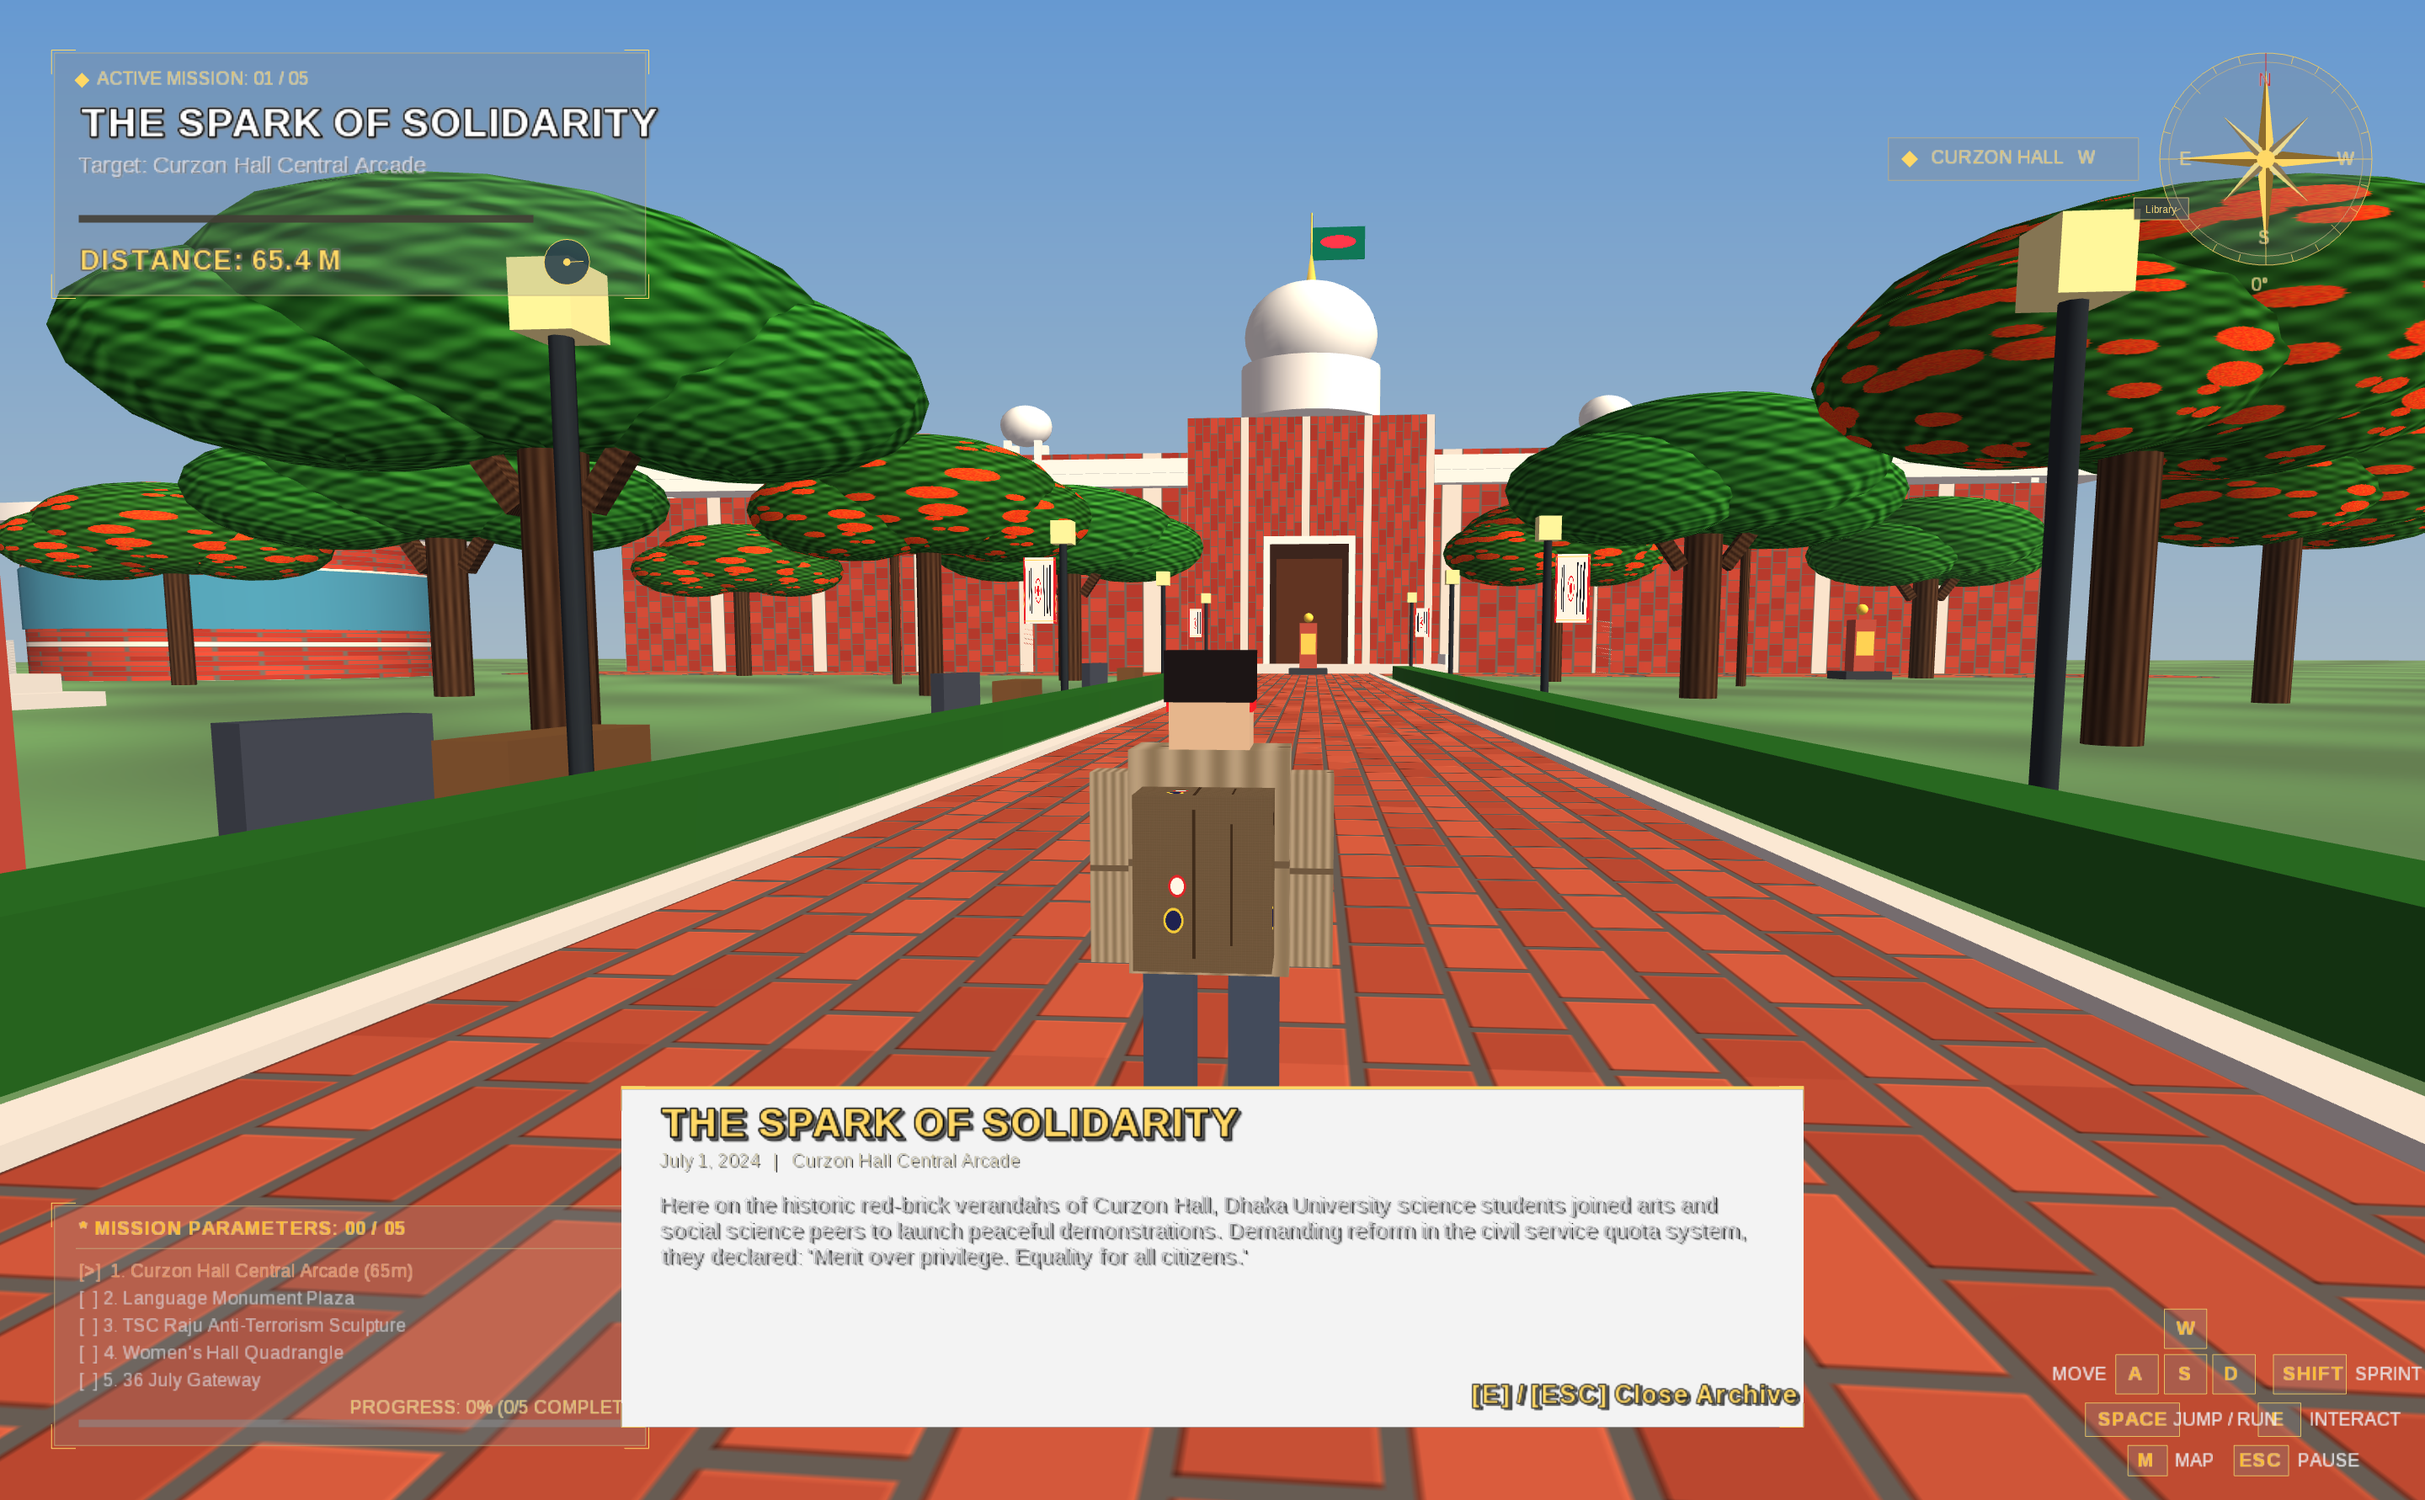
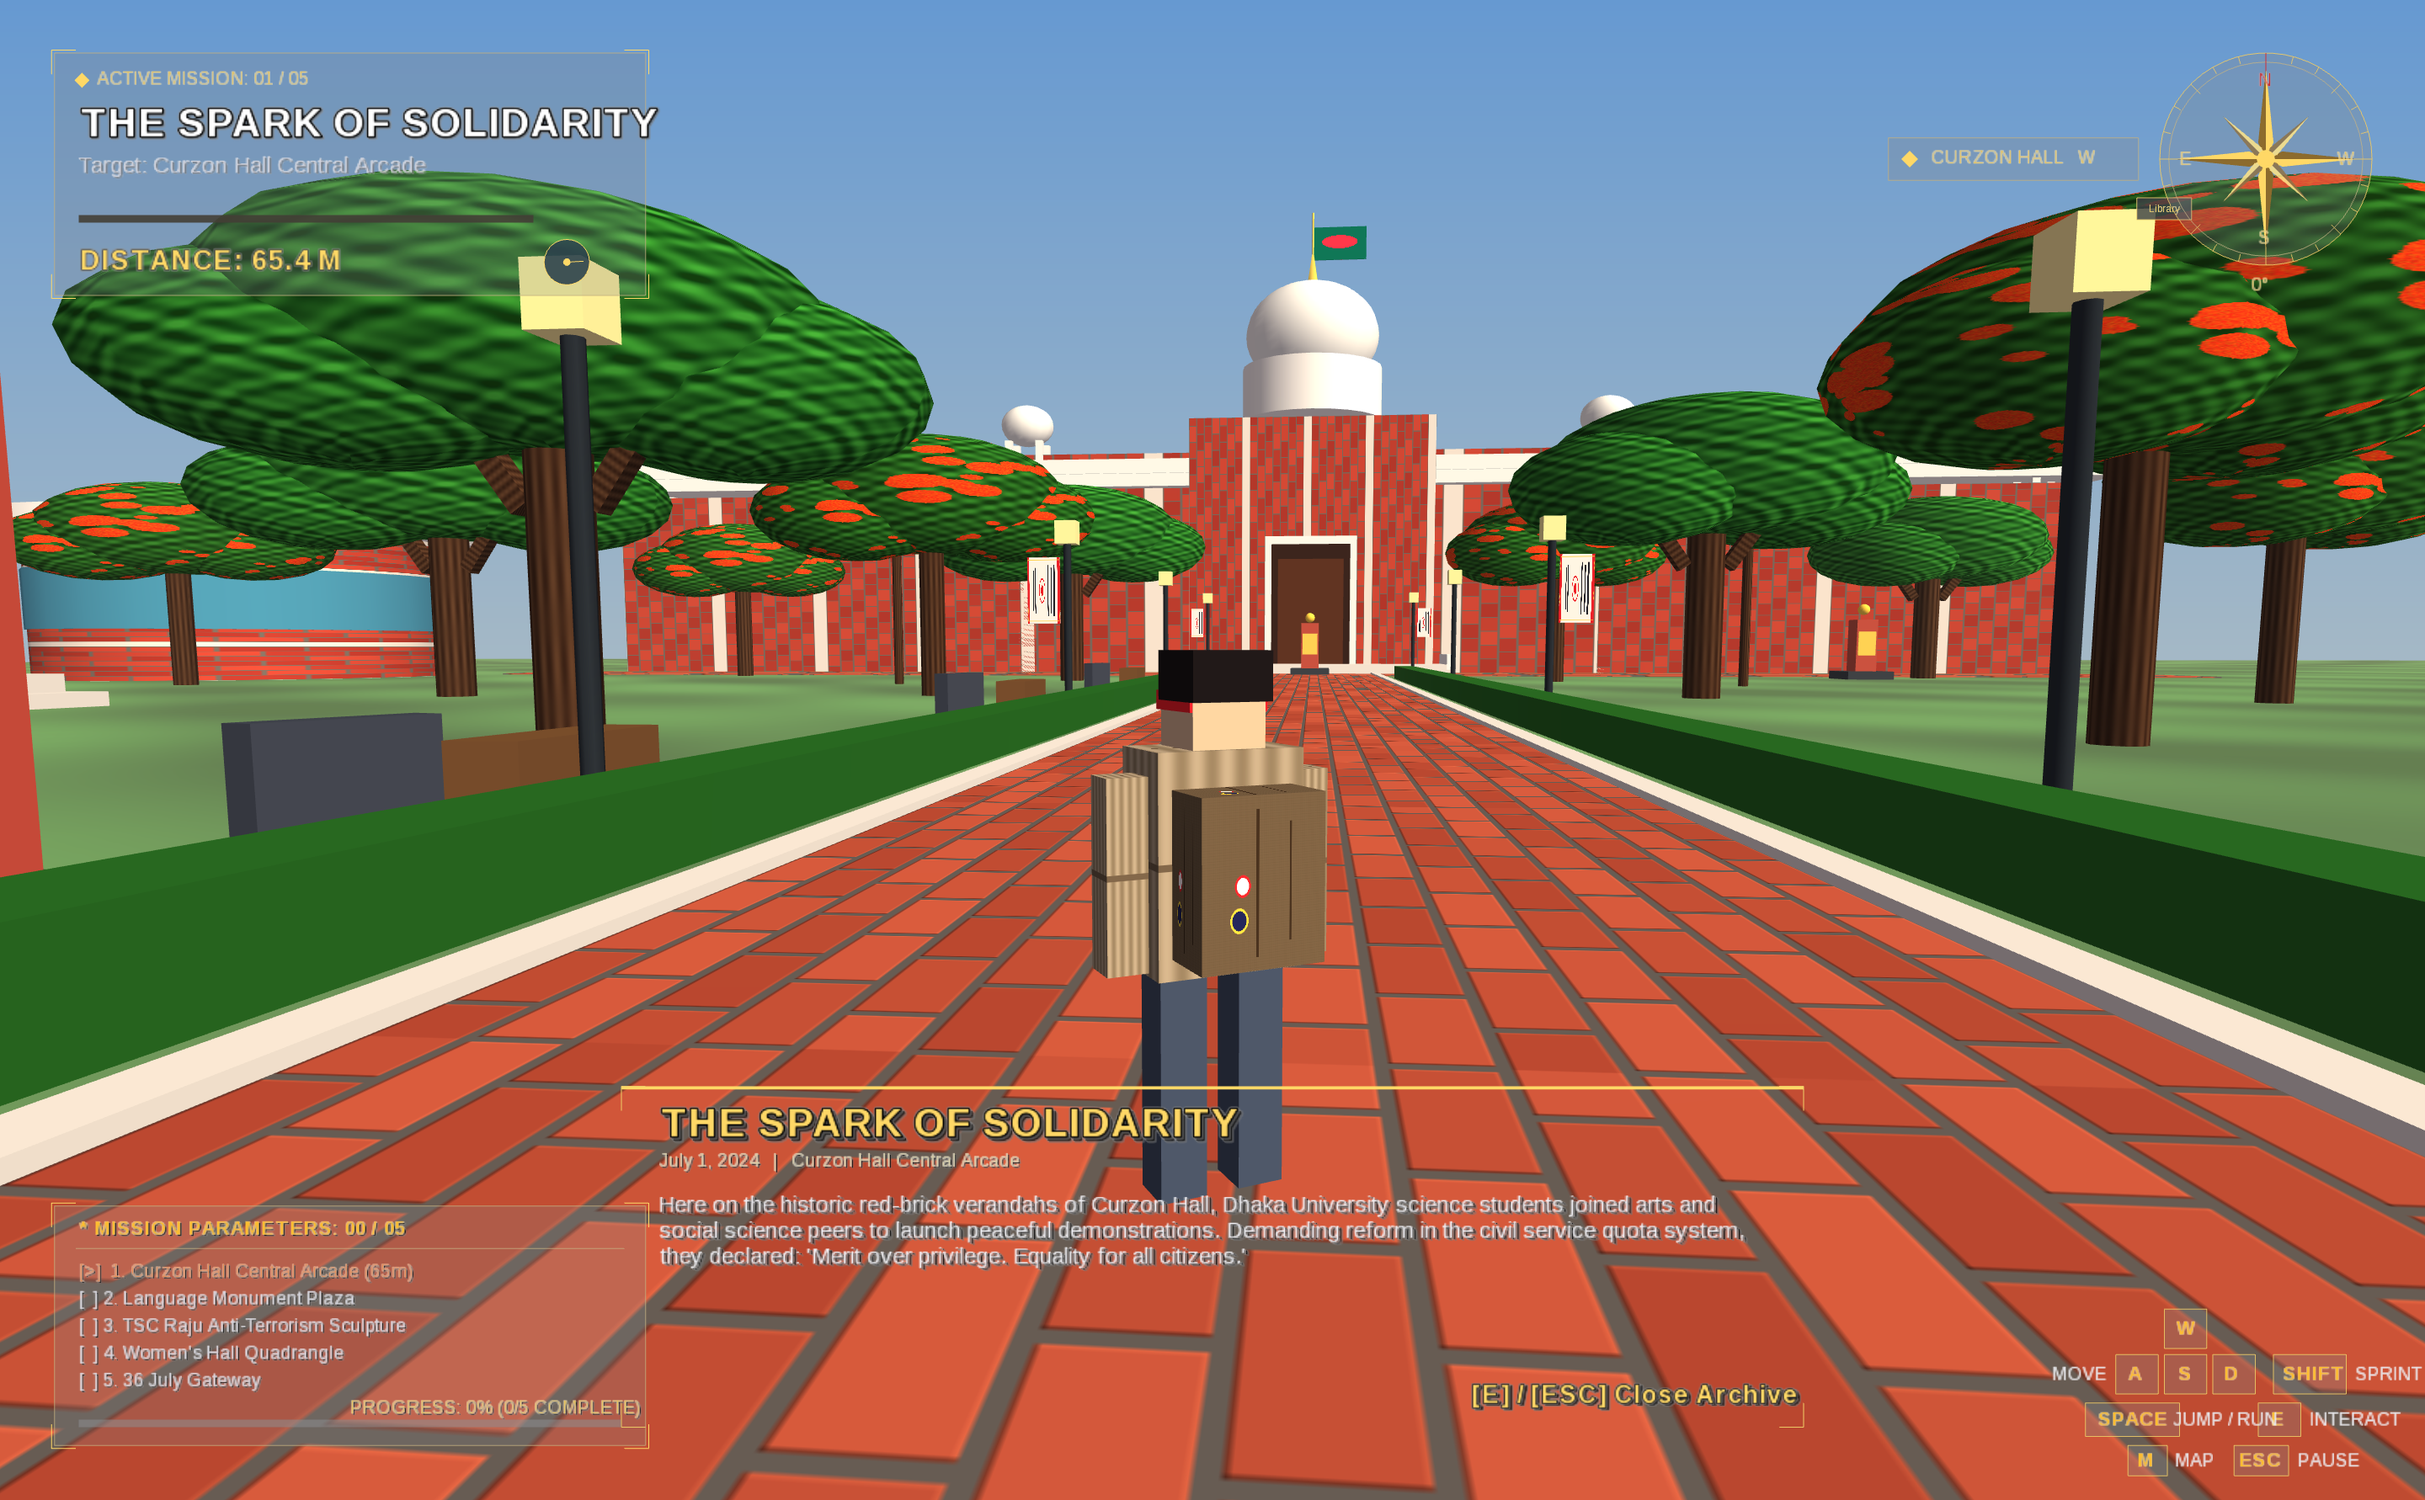
update

diff --git a/core/src/main/java/bd/spark36/hud/WhereWindsMeetHUD.java b/core/src/main/java/bd/spark36/hud/WhereWindsMeetHUD.java
@@ -587,8 +587,10 @@ public class WhereWindsMeetHUD implements Disposable {
         int tot = memorials.getTotalCount();
 
         // 1. Header: "* MISSION PARAMETERS: 01 / 05"
-        fonts.keyFont.setColor(ins >= tot ? Color.GREEN : goldAccent);
         String headerTitle = String.format("* MISSION PARAMETERS: %02d / %02d", ins, tot);
+        fonts.keyFont.setColor(0f, 0f, 0f, 0.90f);
+        fonts.keyFont.draw(spriteBatch, headerTitle, bx + 17f, by + bh - 11f);
+        fonts.keyFont.setColor(ins >= tot ? Color.GREEN : goldAccent);
         fonts.keyFont.draw(spriteBatch, headerTitle, bx + 16f, by + bh - 10f);
 
         // 2. Checklist of the 5 Memorial checkpoints
@@ -610,25 +612,34 @@ public class WhereWindsMeetHUD implements Disposable {
             float y = startY - i * itemSpacing;
             if (entry.inspected) {
                 // Completed: green [OK]
+                fonts.smallFont.setColor(0f, 0f, 0f, 0.90f);
+                fonts.smallFont.draw(spriteBatch, "[OK] " + shortNames[i], bx + 17f, y - 1f);
                 fonts.smallFont.setColor(Color.GREEN);
                 fonts.smallFont.draw(spriteBatch, "[OK] " + shortNames[i], bx + 16f, y);
             } else if (entry == nextObj) {
                 // Active objective: pulsing gold with pointer arrow and distance!
                 float pulse = 0.8f + 0.2f * MathUtils.sin(animTime * 5f);
-                fonts.smallFont.setColor(1f, 0.85f * pulse, 0.35f, 1f);
                 float dst = player.getPosition().dst(entry.position);
-                fonts.smallFont.draw(spriteBatch, String.format("[>]  %s (%.0fm)", shortNames[i], dst), bx + 16f, y);
+                String line = String.format("[>]  %s (%.0fm)", shortNames[i], dst);
+                fonts.smallFont.setColor(0f, 0f, 0f, 0.90f);
+                fonts.smallFont.draw(spriteBatch, line, bx + 17f, y - 1f);
+                fonts.smallFont.setColor(1f, 0.85f * pulse, 0.35f, 1f);
+                fonts.smallFont.draw(spriteBatch, line, bx + 16f, y);
             } else {
                 // Upcoming
-                fonts.smallFont.setColor(new Color(0.85f, 0.85f, 0.88f, 0.60f));
+                fonts.smallFont.setColor(0f, 0f, 0f, 0.90f);
+                fonts.smallFont.draw(spriteBatch, "[  ] " + shortNames[i], bx + 17f, y - 1f);
+                fonts.smallFont.setColor(new Color(0.95f, 0.95f, 0.98f, 0.95f));
                 fonts.smallFont.draw(spriteBatch, "[  ] " + shortNames[i], bx + 16f, y);
             }
         }
 
         // 3. Progress percentage
         int pct = tot > 0 ? (ins * 100 / tot) : 0;
-        fonts.smallFont.setColor(ins >= tot ? Color.GREEN : goldAccent);
         String pctStr = String.format("PROGRESS: %d%% (%d/5 COMPLETE)", pct, ins);
+        fonts.smallFont.setColor(0f, 0f, 0f, 0.90f);
+        fonts.smallFont.draw(spriteBatch, pctStr, bx + bw - 194f, by + 29f);
+        fonts.smallFont.setColor(ins >= tot ? Color.GREEN : goldAccent);
         fonts.smallFont.draw(spriteBatch, pctStr, bx + bw - 195f, by + 30f);
     }
 
@@ -810,12 +821,8 @@ public class WhereWindsMeetHUD implements Disposable {
         float mx = (w - mw) / 2f;
         float my = 48f; // Floating in lower area of screen
 
-        // Ultra-transparent glass backing (0.05 opacity - virtually transparent, zero black screen)
-        shapeRenderer.begin(ShapeType.Filled);
-        shapeRenderer.setColor(0.01f, 0.02f, 0.03f, 0.05f);
-        shapeRenderer.rect(mx, my, mw, mh);
-
         // Thin golden top line
+        shapeRenderer.begin(ShapeType.Filled);
         shapeRenderer.setColor(goldAccent);
         shapeRenderer.rect(mx, my + mh - 2f, mw, 2f);
         shapeRenderer.end();
